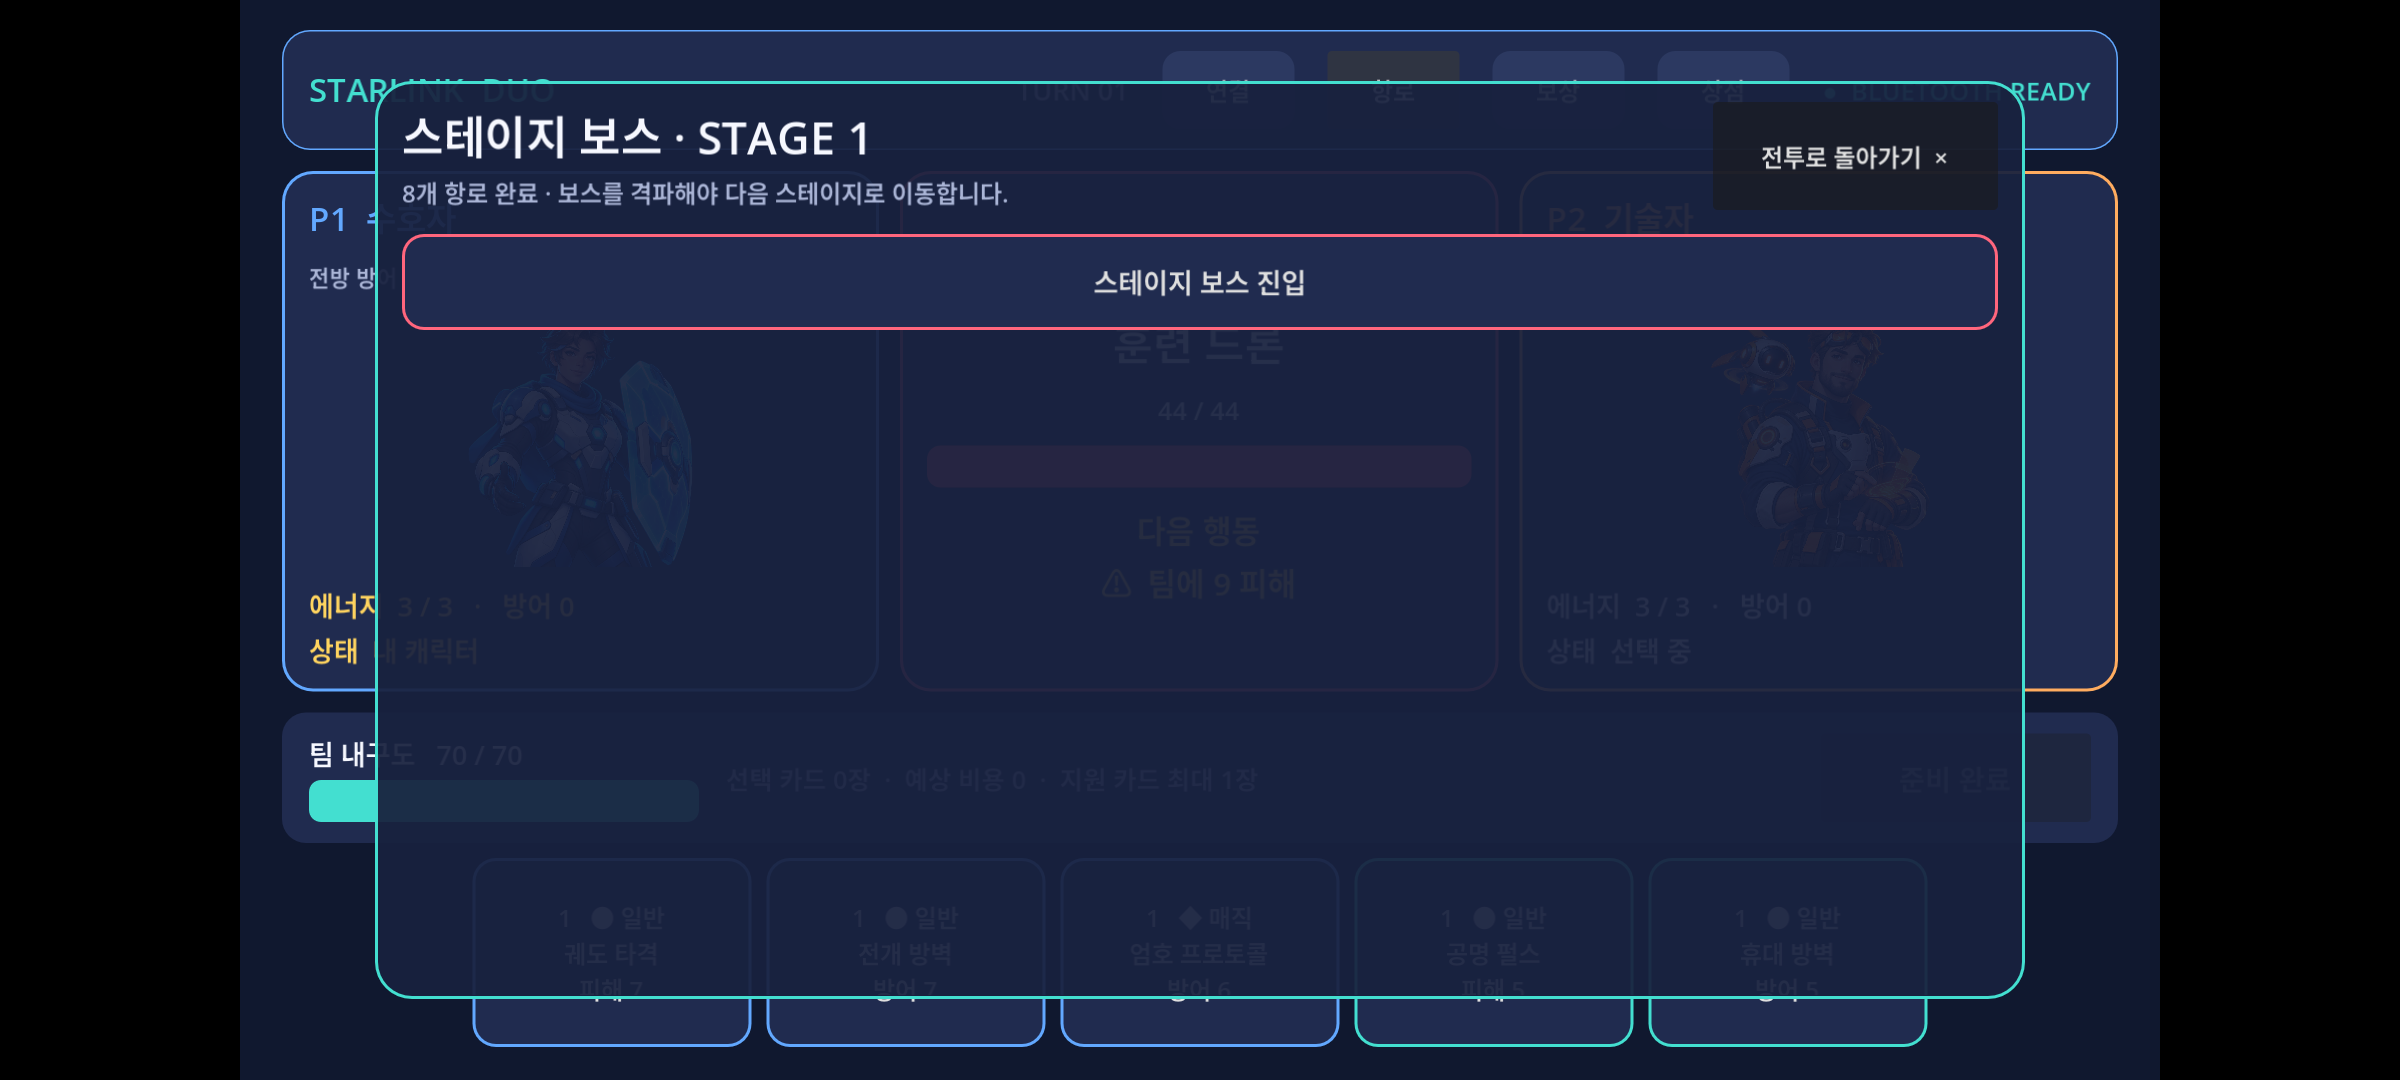
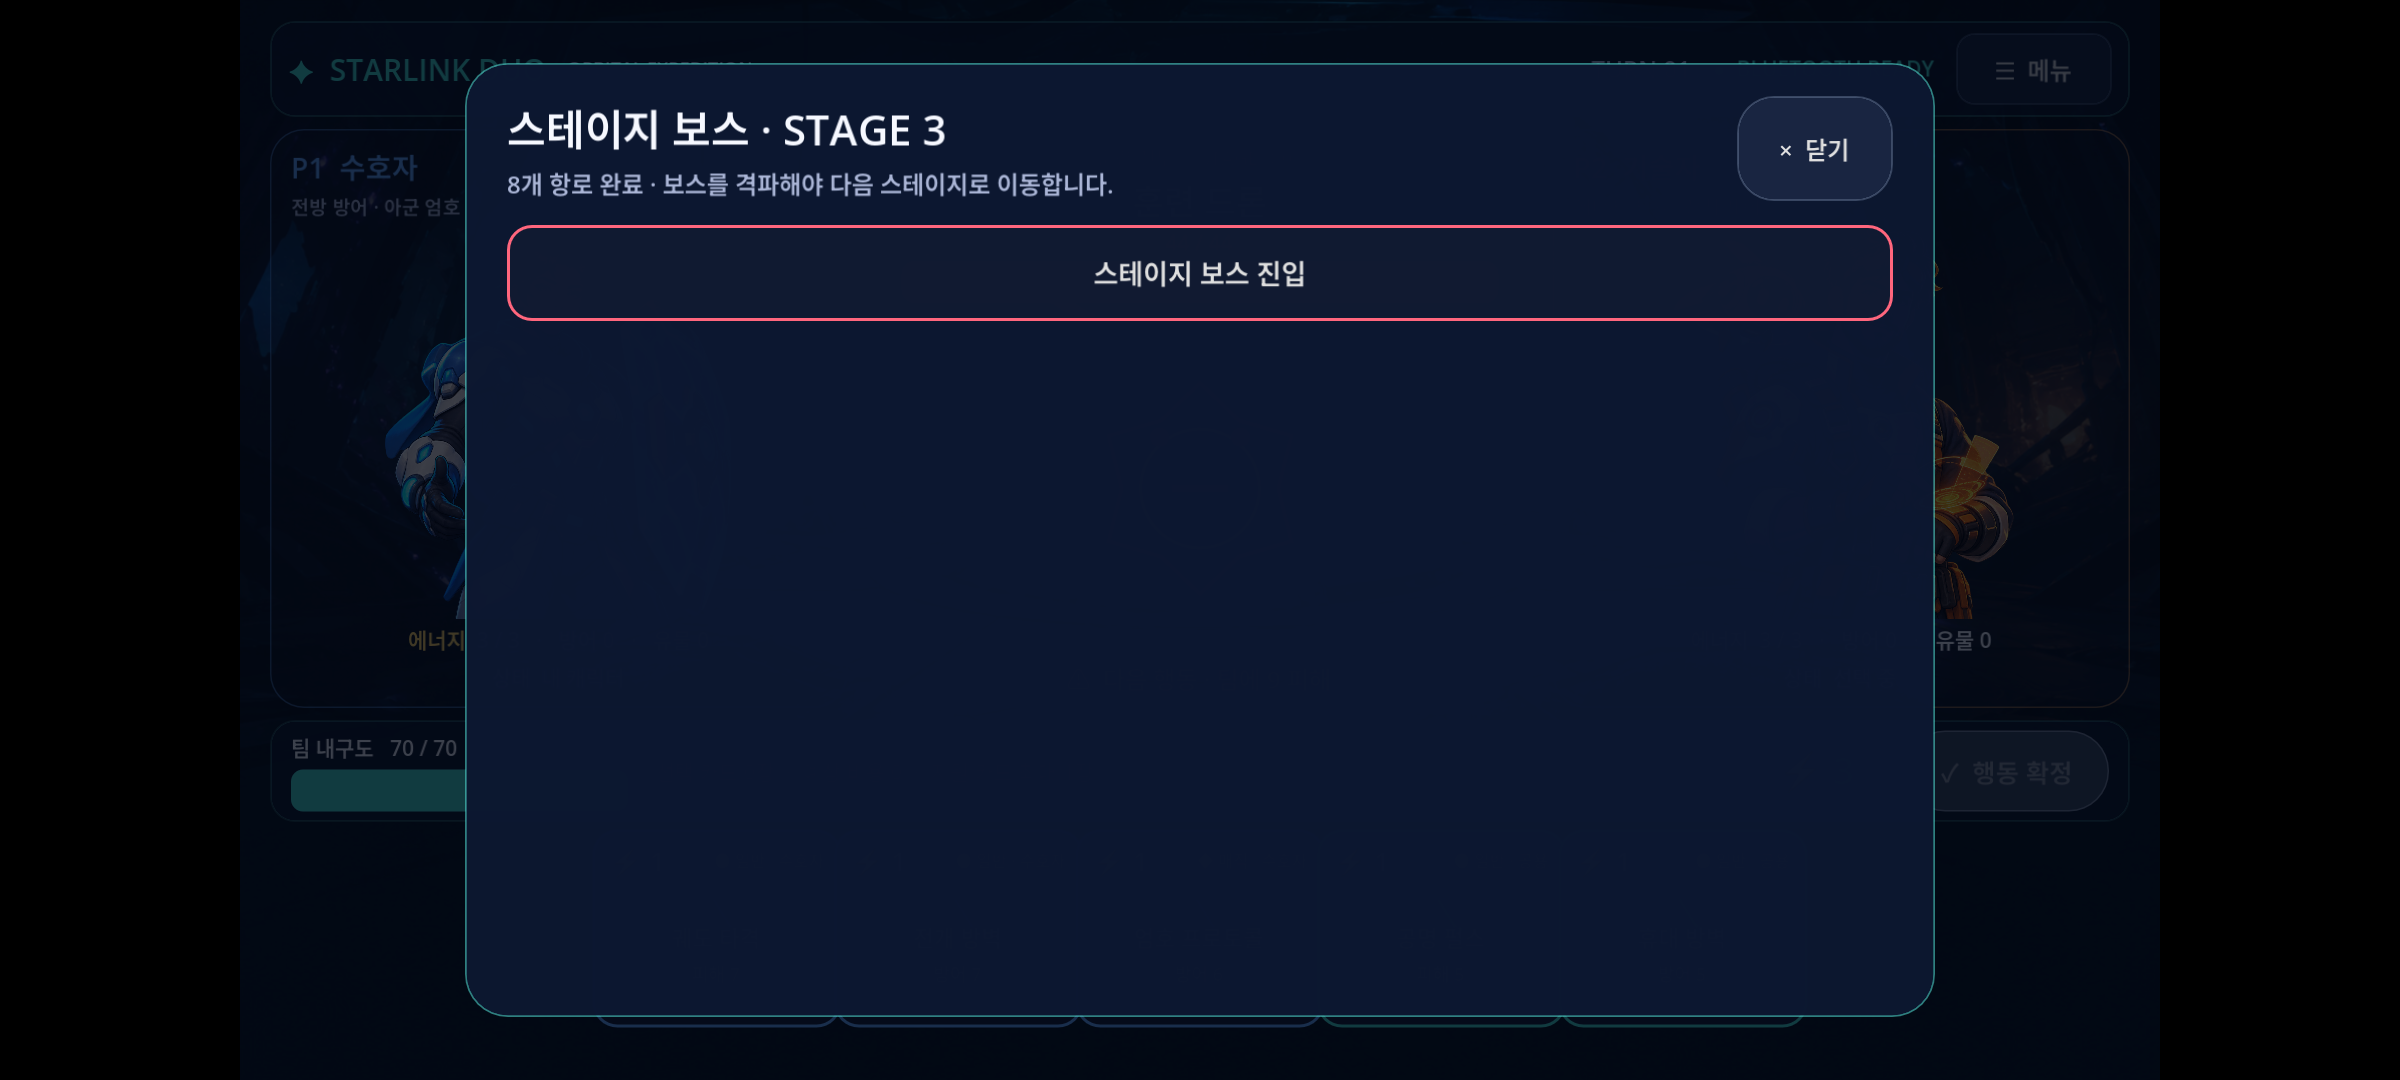
fix: persist shop sales and enrich boss briefing

diff --git a/CHANGELOG.md b/CHANGELOG.md
@@ -39,6 +39,9 @@
 - 카드 보상과 상점에서 같은 카드가 중복 제시되지 않도록 결정론적 후보 제외 규칙과 회귀 검증을 추가했다.
 - 보상 카드에 캐릭터 전용·공용 범위를 문자로 표시하고 획득 후 선택지를 제거한 전용 성공 화면으로 전환한다.
 - 협동 이벤트를 P1/P2 선택 상태, 위험·안전 선택 카드, 합의 판정 안내가 있는 의사결정 화면으로 개편했다.
+- 상점 구매 이력을 체크포인트에 저장하고 카드·유물·소비품의 중복 구매를 차단하며 구매 즉시 `판매 완료` 상태를 표시한다.
+- 보스 진입 화면에 팀 내구도·열쇠·양쪽 크레딧과 교전 전 점검 안내를 추가해 비어 있던 전환 화면을 브리핑 화면으로 개편했다.
+- emulator-5556에서 상점 구매 전후, 결투 승리, 3스테이지 보스, 런 완주 상태를 강제 재현하고 원래 STAGE 1/2 체크포인트로 복원했다.
 
 ### Bluetooth 전송
 
